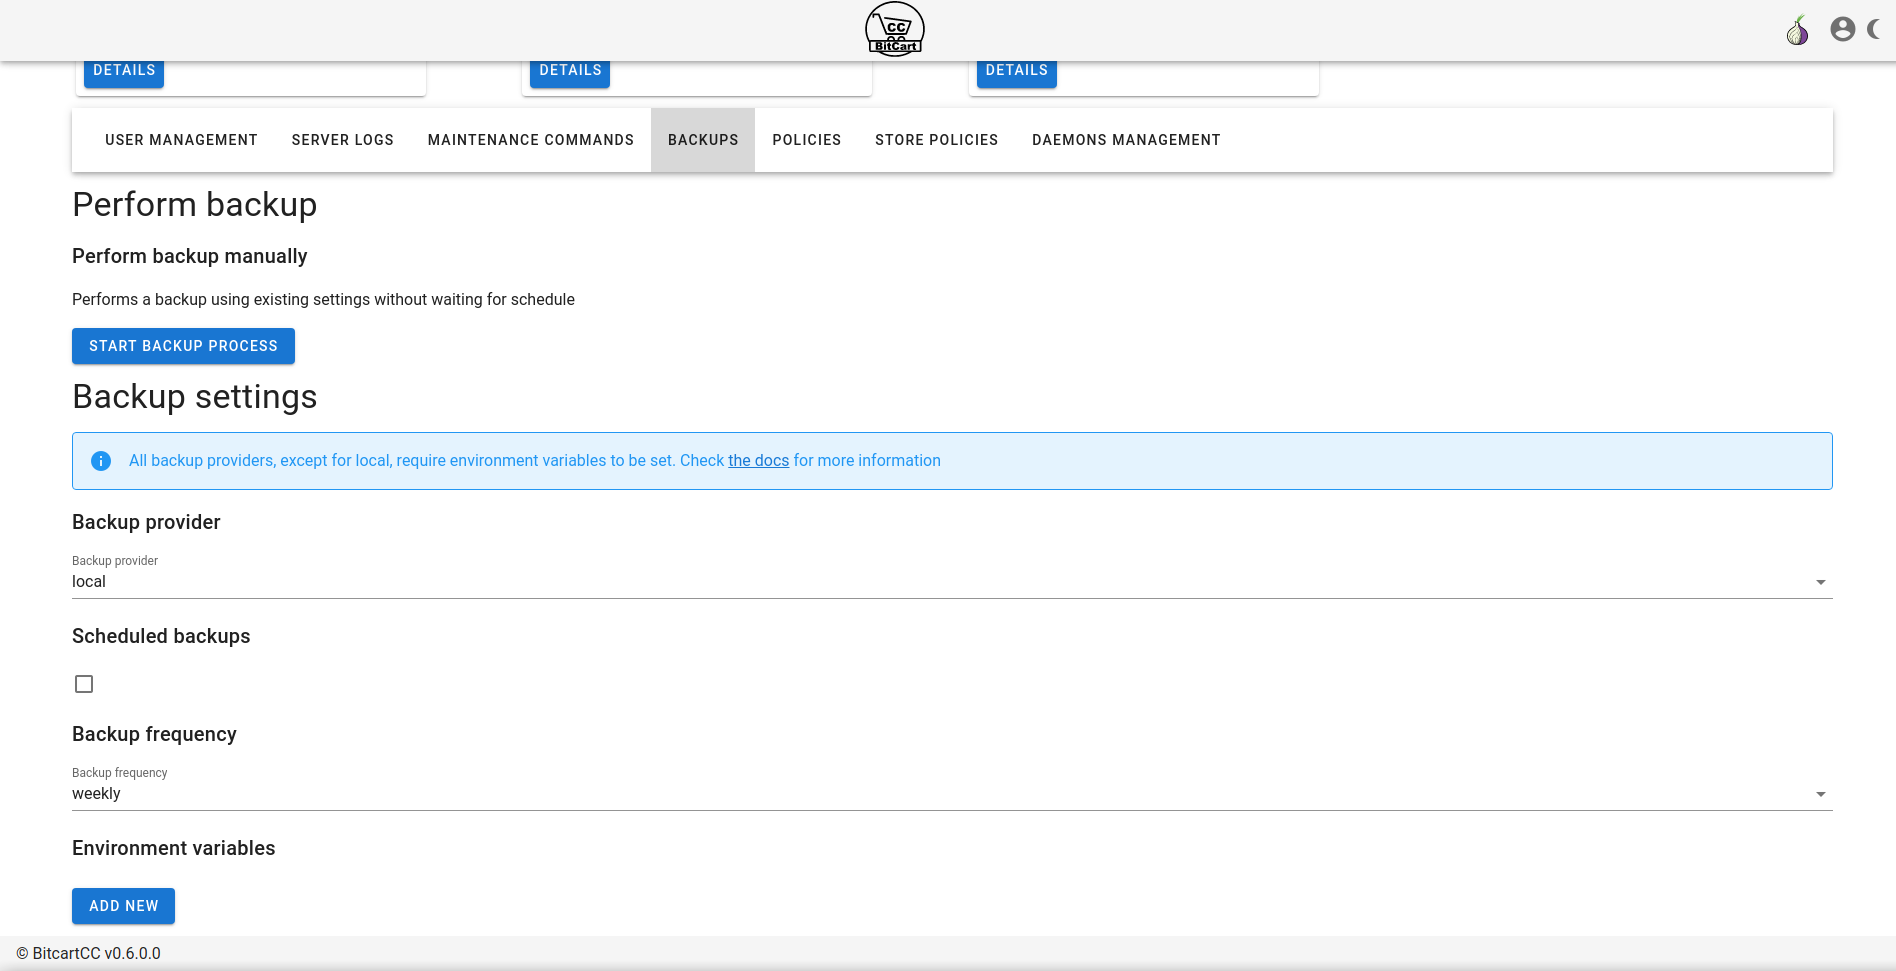
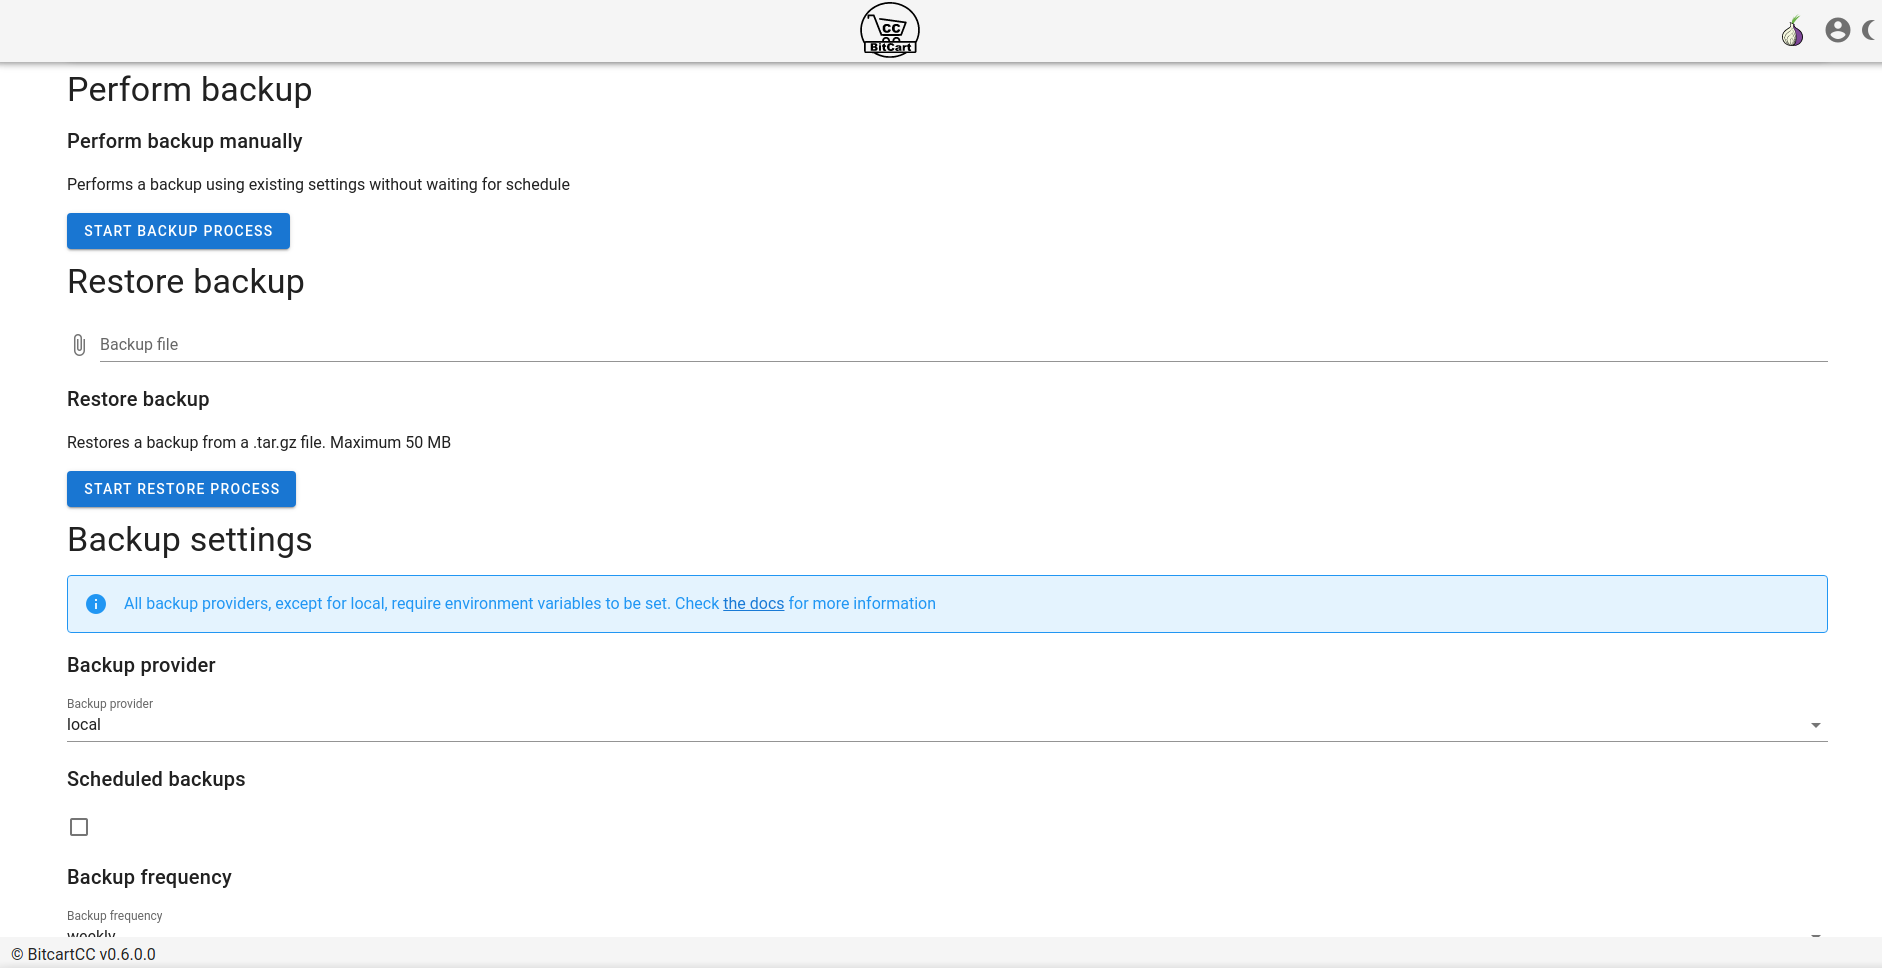
GitBook: [master] 50 pages and 3 assets modified

diff --git a/guides/backups.md b/guides/backups.md
@@ -10,6 +10,8 @@ To enter backups management page, go to profile-&gt;server management-&gt;backup
 
 ![Backups management page](../.gitbook/assets/backups_management.png)
 
+![Backups management page](../.gitbook/assets/backups_management2.png)
+
 From there you can start a backup right away, it uses settings from this page to do it.
 
 ### Backup settings
@@ -56,6 +58,12 @@ Settings are saved automatically, and if you had existing schedule configured an
 {% hint style="info" %}
 We assume that daily is exactly every day, weekly is every 7 days, monthly is every 30 days
 {% endhint %}
+
+### Restoring backups
+
+![Restore backup](../.gitbook/assets/restore_backup.png)
+
+Restoring backups is as easy as just uploading backup file to your instance!
 
 ## Backups management from terminal
 
